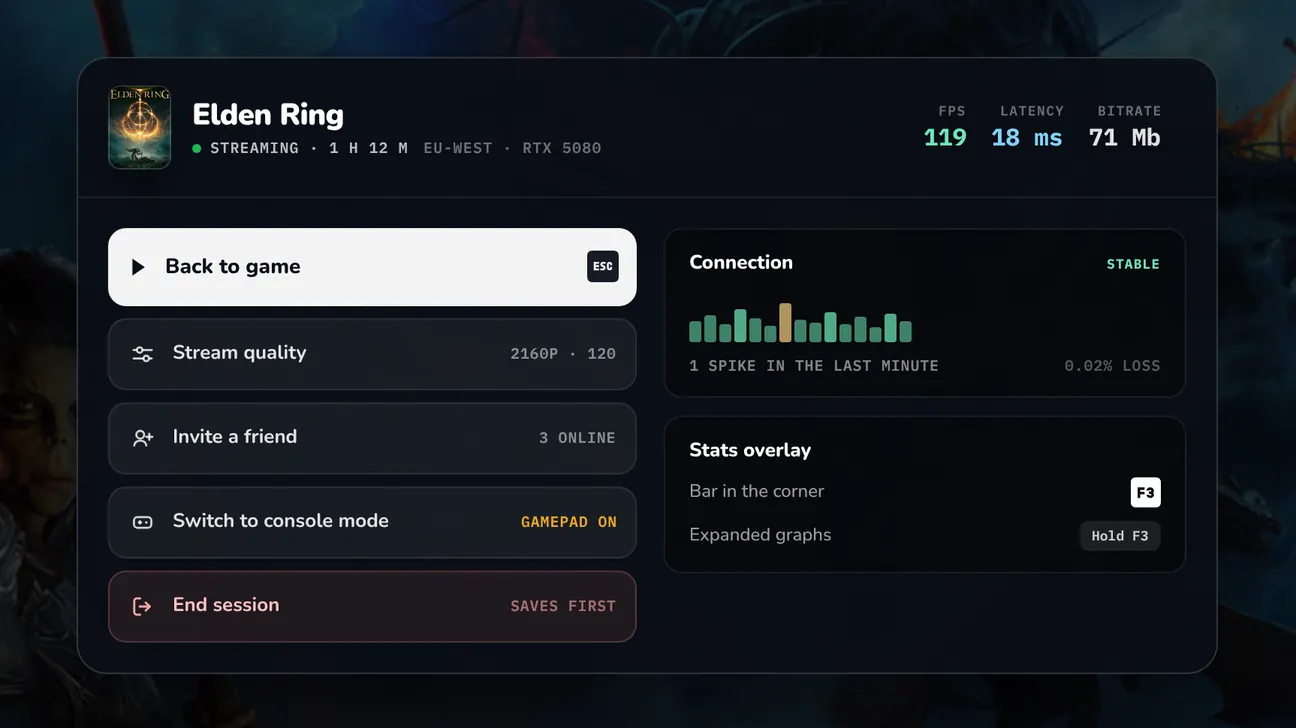
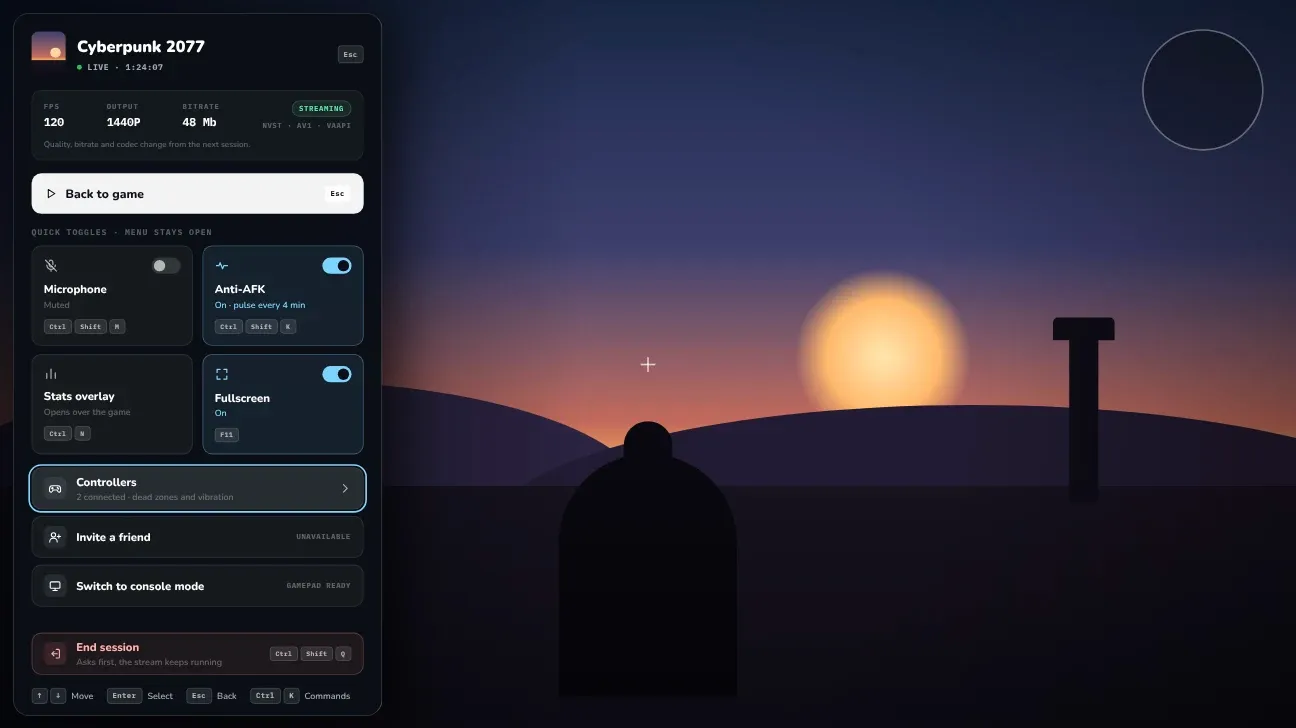
feat(home): refresh the in-stream menu card from the Paper design

diff --git a/src/routes/index.tsx b/src/routes/index.tsx
@@ -345,7 +345,7 @@ function Home() {
           <AppWindow
             src="esc-menu"
             label="In the app · Desktop · In-stream menu (Esc)"
-            alt="The OpenNOW desktop in-stream menu over Elden Ring: live FPS, latency and bitrate, Back to game, Stream quality, Invite a friend, Switch to console mode and End session, next to a connection graph and the F3 stats overlay shortcuts."
+            alt="The OpenNOW desktop in-stream menu, a drawer docked on the left over a running Cyberpunk 2077 stream: the game title and session time with an Esc hint, live FPS 120, output 1440p, bitrate 48 Mb and the NVST · AV1 · VAAPI connection line, a note that quality, bitrate and codec change from the next session, Back to game, quick toggles for microphone, Anti-AFK, stats overlay and fullscreen with their shortcuts, then Controllers with its connected-pad note, Invite a friend marked unavailable, Switch to console mode marked gamepad ready, End session, and key hints for move, select, back and commands."
           />
           <AppWindow
             src="console"
